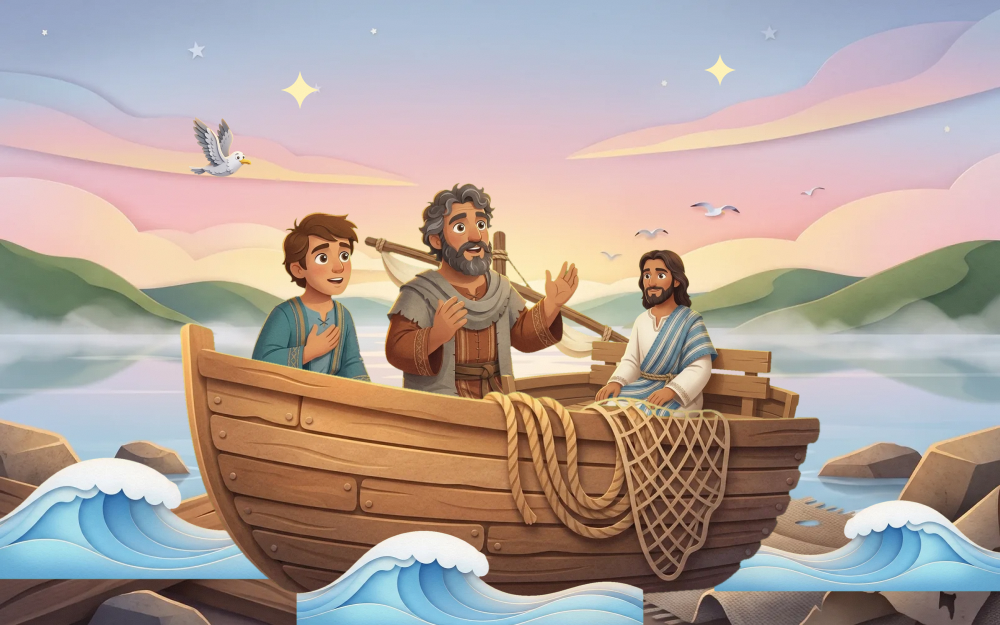
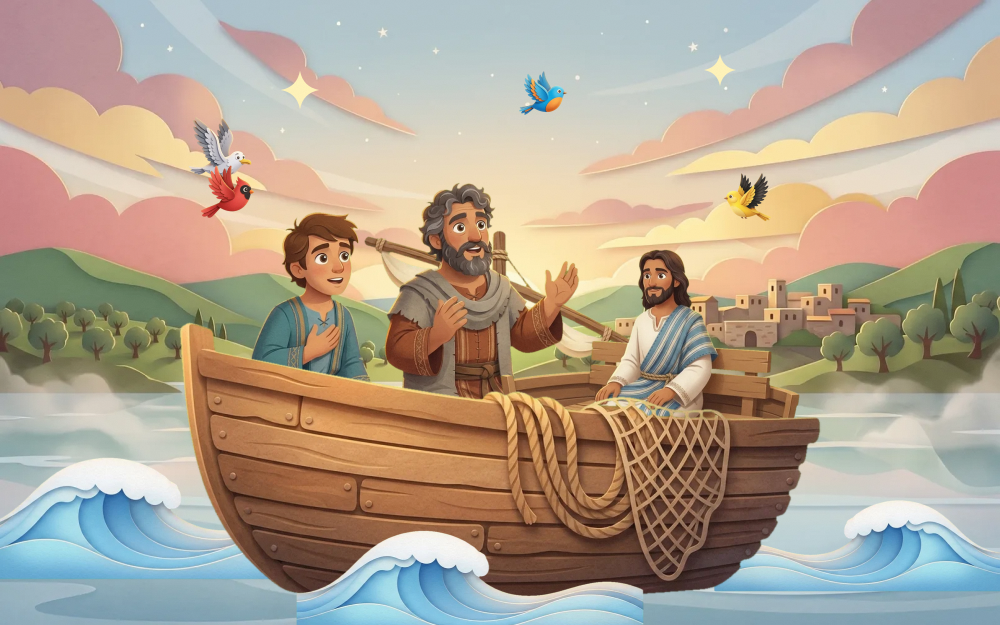
Storm page 5: water-only dawn, four live birds, two of them arriving toward the boat
The calm page's background had rocks and planks under the waves and
painted birds that never moved. It is regenerated as water, mist, hills
and sky only. The gull and a bluebird now cross on the fly path, and a
red bird and a goldfinch arrive from the distance toward the men on two
new swoop paths that scale the bird up as it approaches, then pass
behind the figures. The songbird frames are reused from David's hill.

diff --git a/src/scenes/storm.tsx b/src/scenes/storm.tsx
@@ -39,6 +39,13 @@ import calmDisciples from "../assets/scenes/storm/calm/disciples-amazed.webp";
 import jonahStormLayers from "../assets/scenes/jonah/storm/layers.json";
 import stormWave from "../assets/scenes/jonah/storm/wave.webp";
 import skyWaterLayers from "../assets/scenes/creation/sky-water/layers.json";
+import shepherdLayers from "../assets/scenes/david/shepherd/layers.json";
+import bluebirdUp from "../assets/scenes/david/shepherd/bluebird-up.webp";
+import bluebirdDown from "../assets/scenes/david/shepherd/bluebird-down.webp";
+import redbirdUp from "../assets/scenes/david/shepherd/redbird-up.webp";
+import redbirdDown from "../assets/scenes/david/shepherd/redbird-down.webp";
+import goldfinchUp from "../assets/scenes/david/shepherd/goldfinch-up.webp";
+import goldfinchDown from "../assets/scenes/david/shepherd/goldfinch-down.webp";
 import calmWave from "../assets/scenes/creation/sky-water/calm-wave.webp";
 import type { SceneArtProps } from "../types";
 
@@ -257,6 +264,47 @@ function Gull({
       y={y}
       flip={flip}
       motion="a-fly"
+      delay={delay}
+    />
+  );
+}
+
+/** The songbirds from David's hill, two frames each, aligned on the eye. All three cutouts face right. */
+const SONGBIRDS = {
+  blue: { up: bluebirdUp, down: bluebirdDown, upEye: [205, 85], downEye: [240, 50] },
+  red: { up: redbirdUp, down: redbirdDown, upEye: [185, 95], downEye: [215, 50] },
+  gold: { up: goldfinchUp, down: goldfinchDown, upEye: [188, 100], downEye: [245, 45] },
+} as const;
+
+function SongBird({
+  kind,
+  x,
+  y,
+  s,
+  motion,
+  delay,
+  flip = false,
+}: {
+  kind: keyof typeof SONGBIRDS;
+  x: number;
+  y: number;
+  s: number;
+  motion: string;
+  delay: number;
+  flip?: boolean;
+}) {
+  const b = SONGBIRDS[kind];
+  const L = shepherdLayers.cutouts;
+  const up = L[`${kind === "blue" ? "bluebird" : kind === "red" ? "redbird" : "goldfinch"}-up`];
+  const down = L[`${kind === "blue" ? "bluebird" : kind === "red" ? "redbird" : "goldfinch"}-down`];
+  return (
+    <Flipbook
+      a={{ src: b.up, w: up.w, h: up.h, ax: b.upEye[0], ay: b.upEye[1], s }}
+      b={{ src: b.down, w: down.w, h: down.h, ax: b.downEye[0], ay: b.downEye[1], s }}
+      x={x}
+      y={y}
+      flip={flip}
+      motion={motion}
       delay={delay}
     />
   );
@@ -564,6 +612,10 @@ export function WhoIsThis({ found }: SceneArtProps) {
     <>
       <Backdrop src={calmBg} />
       <Gull x={220} y={150} s={0.2} delay={-9} flip />
+      <SongBird kind="blue" x={560} y={88} s={0.2} motion="a-fly" delay={-15} />
+      {/* two birds come in from far off toward the boat, one from each side */}
+      <SongBird kind="red" x={245} y={188} s={0.24} motion="a-swoop-l" delay={-3} />
+      <SongBird kind="gold" x={730} y={195} s={0.22} motion="a-swoop-r" delay={-10} flip />
       <Ripple x={160} y={580} scale={0.56} delay={0} />
       <Ripple x={860} y={592} scale={0.42} delay={0} flip />
       <g className="a-heave-slow">

diff --git a/src/styles/motion.css b/src/styles/motion.css
@@ -386,6 +386,56 @@ svg [class*=" a-"] {
   transform-origin: 0% 35%;
 }
 
+@keyframes swoop-l {
+  0% {
+    opacity: 0;
+    transform: translate(-360px, -150px) scale(0.3);
+  }
+  8% {
+    opacity: 1;
+  }
+  68% {
+    opacity: 1;
+    transform: translate(0, 0) scale(1);
+  }
+  82% {
+    opacity: 0;
+    transform: translate(70px, 30px) scale(1.06);
+  }
+  100% {
+    opacity: 0;
+    transform: translate(-360px, -150px) scale(0.3);
+  }
+}
+@keyframes swoop-r {
+  0% {
+    opacity: 0;
+    transform: translate(360px, -150px) scale(0.3);
+  }
+  8% {
+    opacity: 1;
+  }
+  68% {
+    opacity: 1;
+    transform: translate(0, 0) scale(1);
+  }
+  82% {
+    opacity: 0;
+    transform: translate(-70px, 30px) scale(1.06);
+  }
+  100% {
+    opacity: 0;
+    transform: translate(360px, -150px) scale(0.3);
+  }
+}
+/* A bird arriving from far off toward the figures, growing as it comes, then passing behind them. Rests at full size in Calm mode. */
+.a-swoop-l {
+  animation: swoop-l 15s ease-in-out infinite;
+}
+.a-swoop-r {
+  animation: swoop-r 15s ease-in-out infinite;
+}
+
 @keyframes flutter {
   0% {
     transform: translate(0, 0);

diff --git a/docs/evidence/2026-09-18-storm-story/record.md b/docs/evidence/2026-09-18-storm-story/record.md
@@ -231,3 +231,25 @@ look like they are still falling."
   in Calm mode, like the wild-night page.
 
 Render `storm-peace.png` and `peace-phone.png` replaced. Calls: 1.
+
+## Review round 6 (owner, 2026-09-19): page 5
+
+"Waves superimposed on rocks and wood; only one bird flying, the others
+static; make the background more realistic; other coloured birds flying
+through, some flying towards Jesus and the disciples."
+
+- Background regenerated with "NO birds, NO rocks, NO wood, NO shore":
+  glassy dawn water with long reflections, lifting mist, layered hills
+  with olive groves and a stone village, clearing sky with fading stars
+  (`calm-bg-v2.json`, 52 KB). Scene 294 KB. The painted static birds are
+  gone with it; every bird on the page is now animated.
+- Birds: the gull and a bluebird cross on the `fly` path; a red bird and a
+  goldfinch arrive from far off toward the boat on two new paths
+  (`swoop-l`, `swoop-r` in `motion.css`): they fade in small and distant,
+  grow to full size as they reach the men, then pass behind and fade.
+  The goldfinch is flipped so it faces the boat from the right. The bird
+  frames are David's hill songbirds (`SongBird` helper in `storm.tsx`,
+  eye anchors as in `david.tsx`). In Calm mode each bird rests at full
+  size at its arrival point.
+
+Render `storm-calm.png` and the stills replaced. Calls: 1.
